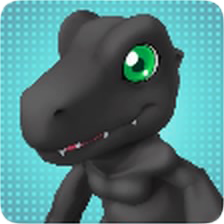
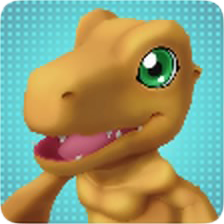
Fixed some assets

diff --git a/data.js b/data.js
@@ -26,7 +26,7 @@ const DIGIMONS = {
   tsumemon: { name: "Tsumemon", stage: "In-Training", evolvesTo: ["keramon", "toyAgumonBlack", "agumonBlack", "gabumonBlack", "tsukaimon"], method: ["Time"] , icon: "./assets/tsumemon.png" },
   nyaromon: { name: "Nyaromon", stage: "In-Training", evolvesTo: ["salamon", "snowAgumon", "renamon", "biyomon", "lucemon"], method: ["Time"] , icon: "./assets/nyaromon.png" },
   bukamon: { name: "Bukamon", stage: "In-Training", evolvesTo: ["gomamon", "veemon", "snowGoblimon", "clearAgumon", "gumdramon"], method: ["Time"] , icon: "./assets/bukamon.png" },
-  agumon: { name: "Agumon", stage: "Rookie", evolvesTo: ["greymon", "tyrannomon", "meramon", "greymonBlue", "numemon", "geremon"], method: ["HP >= 1900", "STR >= 890", "KEY PTS = 2"] },
+  agumon: { name: "Agumon", stage: "Rookie", evolvesTo: ["greymon", "tyrannomon", "meramon", "greymonBlue", "numemon", "geremon"], method: ["HP >= 1900", "STR >= 890", "KEY PTS = 2"], icon: "./assets/agumon.png" },
   gabumon: { name: "Gabumon", stage: "Rookie", evolvesTo: ["garurumon", "gaoGamon", "garurumonBlack", "seadramon", "numemon", "geremon"], method: "-" , icon: "./assets/gabumon.png" },
   biyomon: { name: "Biyomon", stage: "Rookie", evolvesTo: ["birdramon", "piddomon", "redVeedramon", "youkomon", "numemon", "geremon"], method: "-" , icon: "./assets/biyomon.png" },
   patamon: { name: "Patamon", stage: "Rookie", evolvesTo: ["angemon", "piddomon", "veedramon", "growlmonOrange", "numemon", "geremon"], method: "-" , icon: "./assets/patamon.png" },
